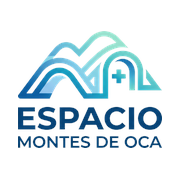
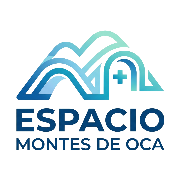
Buscador en Accesos, iconos sin fondo blanco y fuera el campo de vencimiento
BUSCADOR EN ACCESO A LA APP

El mismo de Profesionales. Con treinta y seis nombres, encontrar a uno para
crearle el acceso era bajar la lista a ojo. Filtra tambien por email: con esa
cantidad, buscar "gmail" para ver a quienes se les cargo una casilla de ese
dominio es una pregunta tan valida como buscar un apellido.

El componente se mudo a la raiz del panel porque ahora lo usan dos pantallas
y las dos hacen lo mismo —escribir en ?q= y dejar que el servidor filtre—;
lo unico que cambia es el texto de ayuda y que parametros conservar, asi que
eso son props.

El contador de arriba sigue hablando del centro entero y no de lo filtrado:
"2 de 3 no entran" mientras se busca una letra seria un numero que no
significa nada.

LOS ICONOS

Tenian fondo blanco solido: eso era el recuadro que se veia en la barra de
tareas, pegado al lado de iconos que no lo tienen. Se regeneran desde
public/logo.png con `node scripts/iconos.mjs`, en dos juegos distintos —
compartir un archivo entre los dos era el error de antes:

 · `any` transparente y con el logo lo mas grande que entra. Es el del
   escritorio.
 · `maskable` con fondo y con margen: Android lo recorta con la forma del
   telefono, asi que el dibujo tiene que llegar al borde y el logo quedar
   dentro del 80% central. Transparente, ese recorte dejaria ver el fondo
   del launcher.
 · El de iOS tambien con fondo: iOS no respeta la transparencia, compone
   sobre negro y aplica su propia esquina redondeada.
[…]

diff --git a/app/panel/[slug]/cierre/page.tsx b/app/panel/[slug]/cierre/page.tsx
@@ -70,17 +70,39 @@ export default async function CierrePage({
   // cobra en septiembre. Antes eran "diez días desde hoy", lo que corría el vencimiento según el
   // día en que uno se acordaba de cerrar — dos meses seguidos vencían en fechas distintas. Sigue
   // siendo un default: el campo se puede cambiar antes de emitir.
+  // Ya no es el valor de un campo: es lo que se le AVISA a quien cierra. La fecha sale de
+  // Configuración → Datos de cobro y se decide una vez, no en cada cierre.
   const venceDefault = venceElDelPeriodo(periodo, cobro.diaVencimiento);
+  const venceTexto = new Date(`${venceDefault}T12:00:00Z`).toLocaleDateString("es-AR", {
+    day: "numeric", month: "long", year: "numeric", timeZone: "UTC",
+  });
   const volverA = `/panel/${slug}/cierre?periodo=${periodo}`;
+
+  /**
+   * La fecha de vencimiento del período, leída de Configuración → Datos de cobro.
+   *
+   * Se resuelve ACÁ y no en el formulario: el día lo decide una sola vez quien administra el
+   * centro, y repetirlo como un campo en cada cierre era pedir que se confirme algo que ya estaba
+   * decidido — con la puerta abierta a que dos meses seguidos venzan en fechas distintas por una
+   * tecla mal apretada.
+   *
+   * Se relee de la base dentro de la acción, y no se toma del render: lo que viaja en el
+   * formulario puede venir modificado desde el navegador.
+   */
+  async function vencimientoDe(operadorId: string, periodo: string) {
+    const c = await datosDeCobro(operadorId);
+    return venceElDelPeriodo(periodo, c.diaVencimiento);
+  }
 
   async function cerrarUno(formData: FormData) {
     "use server";
     const a = await actorDeSesion(slug);
     if (!a) redirect(`/login?centro=${encodeURIComponent(slug)}`);
+    const per = String(formData.get("periodo") ?? "");
     const r = await cerrarMesDe(a, {
-      periodo: formData.get("periodo"),
+      periodo: per,
       inquilinoId: formData.get("inquilinoId"),
-      venceEl: formData.get("venceEl"),
+      venceEl: await vencimientoDe(a.operadorId, per),
     });
     revalidatePath(`/panel/${slug}/cierre`);
     const qs = !r.ok ? `&error=${r.error}` : r.data.ok ? `&ok=uno&n=${r.data.numero}` : `&error=${r.data.error}`;
@@ -91,7 +113,8 @@ export default async function CierrePage({
     "use server";
     const a = await actorDeSesion(slug);
     if (!a) redirect(`/login?centro=${encodeURIComponent(slug)}`);
-    const r = await cerrarMesTodos(a, { periodo: formData.get("periodo"), venceEl: formData.get("venceEl") });
+    const per = String(formData.get("periodo") ?? "");
+    const r = await cerrarMesTodos(a, { periodo: per, venceEl: await vencimientoDe(a.operadorId, per) });
     revalidatePath(`/panel/${slug}/cierre`);
     const qs = !r.ok ? `&error=${r.error}` : `&ok=todos&n=${r.data.cerradas}`;
     redirect(`${volverA}${qs}`);
@@ -189,15 +212,16 @@ export default async function CierrePage({
           {conPendiente.length > 0 && (
             <form action={cerrarTodos} style={{ marginTop: 18, display: "flex", gap: 12, alignItems: "flex-end", flexWrap: "wrap" }}>
               <input type="hidden" name="periodo" value={periodo} />
-              <div>
-                <label htmlFor="venceEl" style={{ marginTop: 0 }}>Vence el</label>
-                <input id="venceEl" name="venceEl" type="date" required defaultValue={venceDefault} style={{ width: "auto" }} />
-              </div>
               <BotonEnviar enviando="Cerrando…">Cerrar el mes de todos</BotonEnviar>
             </form>
           )}
 
           <p className="tenue" style={{ margin: "14px 0 0", fontSize: 12, lineHeight: 1.5 }}>
+            Las liquidaciones de {nombreDePeriodo(periodo)} vencen el <b>{venceTexto}</b>. El día
+            sale de <Link href={`/panel/${slug}/cobro`}>Datos de cobro</Link> y vale para todos:
+            así dos meses seguidos no vencen en fechas distintas.
+          </p>
+          <p className="tenue" style={{ margin: "8px 0 0", fontSize: 12, lineHeight: 1.5 }}>
             Cerrar emite la liquidación de cada profesional con su número, y <b>congela</b> los
             importes: un mes cerrado da siempre el mismo total. Los pagos no entran —esto es lo que
             se cobra, no lo que se cobró—. Y no se puede cerrar dos veces el mismo mes.
@@ -265,7 +289,6 @@ export default async function CierrePage({
                         <form action={cerrarUno}>
                           <input type="hidden" name="periodo" value={periodo} />
                           <input type="hidden" name="inquilinoId" value={f.inquilinoId} />
-                          <input type="hidden" name="venceEl" value={venceDefault} />
                           <BotonEnviar enviando="…">Cerrar</BotonEnviar>
                         </form>
                       ) : null}

diff --git a/app/panel/[slug]/accesos/page.tsx b/app/panel/[slug]/accesos/page.tsx
@@ -14,6 +14,7 @@ import { redirect } from "next/navigation";
 import { revalidatePath } from "next/cache";
 import Link from "next/link";
 import { Cabecera } from "../Cabecera.tsx";
+import { Buscador } from "../Buscador.tsx";
 import { actorDeSesion } from "../../../../src/lib/sesion.ts";
 import { puede } from "../../../../src/lib/permisos.ts";
 import { accesosDelCentro, crearAcceso, restablecerClave, LARGO_MIN_CLAVE } from "../../../../src/servicios/config/accesos.ts";
@@ -34,7 +35,7 @@ export default async function AccesosPage({
   searchParams,
 }: {
   params: Promise<{ slug: string }>;
-  searchParams: Promise<{ ok?: string; error?: string; n?: string }>;
+  searchParams: Promise<{ ok?: string; error?: string; n?: string; q?: string }>;
 }) {
   const { slug } = await params;
   const sp = await searchParams;
@@ -43,9 +44,20 @@ export default async function AccesosPage({
   if (!actor) redirect(`/login?centro=${encodeURIComponent(slug)}`);
   if (!puede(actor.rol, "usuarios.administrar")) redirect(`/panel/${slug}`);
 
-  const filas = await accesosDelCentro(actor.operadorId);
+  const todas = await accesosDelCentro(actor.operadorId);
+  // El filtro es sobre el nombre Y sobre el email: con treinta y seis, buscar "gmail" para ver a
+  // quiénes se les cargó una casilla de ese dominio es una pregunta tan válida como buscar a
+  // alguien por su apellido.
+  const busca = (sp.q ?? "").trim().toLocaleLowerCase("es");
+  const filas = busca
+    ? todas.filter((f) => `${f.nombre} ${f.email ?? ""}`.toLocaleLowerCase("es").includes(busca))
+    : todas;
+
   const sinAcceso = filas.filter((f) => !f.email);
   const conAcceso = filas.filter((f) => f.email);
+  // El contador de arriba habla SIEMPRE del centro entero, no de lo que quedó después de filtrar:
+  // "2 de 3 no entran" mientras se busca una letra sería un número que no significa nada.
+  const faltanEnTotal = todas.filter((f) => !f.email).length;
   const ruta = `/panel/${slug}/accesos`;
 
   async function crear(formData: FormData) {
@@ -83,13 +95,19 @@ export default async function AccesosPage({
         {sp.ok === "clave" && <p className="aviso-ok">Contraseña cambiada. Si tenía la app abierta en algún lado, quedó afuera.</p>}
         {sp.error && <p className="aviso-error">{FALLA[sp.error] ?? "No se pudo completar."}</p>}
 
-        <p className="tenue" style={{ margin: "6px 0 20px", fontSize: 13, lineHeight: 1.6 }}>
-          {sinAcceso.length === 0
+        <p className="tenue" style={{ margin: "6px 0 14px", fontSize: 13, lineHeight: 1.6 }}>
+          {faltanEnTotal === 0
             ? "Todos los profesionales activos pueden entrar a la app."
-            : `${sinAcceso.length} de ${filas.length} profesionales todavía no pueden entrar.`}{" "}
+            : `${faltanEnTotal} de ${todas.length} profesionales todavía no pueden entrar.`}{" "}
           La contraseña se muestra mientras la escribís para que puedas pasársela; después no se
           puede volver a ver, solo cambiar.
         </p>
+
+        <Buscador inicial={busca} placeholder="Buscar por nombre o email…" etiqueta="Buscar profesional" />
+
+        {busca && filas.length === 0 && (
+          <p className="tenue">Ningún profesional coincide con «{busca}».</p>
+        )}
 
         {/* Los que faltan, primero: es la pregunta con la que uno abre esta pantalla. */}
         {sinAcceso.length > 0 && (

diff --git a/app/panel/[slug]/Buscador.tsx b/app/panel/[slug]/Buscador.tsx
@@ -1,6 +1,6 @@
 "use client";
 
-// app/panel/[slug]/inquilinos/Buscador.tsx — filtra mientras se tipea.
+// app/panel/[slug]/Buscador.tsx — filtra una lista mientras se tipea.
 //
 // Antes era un form GET con botón "Buscar": había que escribir y apretar. Con 29 nombres eso son
 // dos gestos para algo que se hace todo el tiempo.
@@ -12,6 +12,11 @@
 //
 // El `replace` en vez de `push` es a propósito: si cada letra dejara una entrada en el historial,
 // volver atrás obligaría a apretar diez veces para salir de la pantalla.
+//
+// Vive en la raíz del panel y no adentro de una pantalla porque lo usan dos —Profesionales y
+// Acceso a la app— y las dos hacen exactamente lo mismo: escribir en `?q=` y dejar que el
+// servidor filtre. Lo único que cambia entre ellas es el texto de ayuda y qué parámetros hay que
+// conservar, así que eso son props.
 
 import { useEffect, useRef, useState } from "react";
 import { usePathname, useRouter, useSearchParams } from "next/navigation";
@@ -20,7 +25,18 @@ import { usePathname, useRouter, useSearchParams } from "next/navigation";
  *  corto para que se sienta inmediato. */
 const ESPERA_MS = 220;
 
-export function Buscador({ inicial, verTodos }: { inicial: string; verTodos: boolean }) {
+export function Buscador({
+  inicial,
+  placeholder = "Buscar por nombre…",
+  etiqueta = "Buscar",
+  ocultos = {},
+}: {
+  inicial: string;
+  placeholder?: string;
+  etiqueta?: string;
+  /** Lo que el formulario de respaldo tiene que arrastrar (por ejemplo `ver=todos`). */
+  ocultos?: Record<string, string>;
+}) {
   const router = useRouter();
   const pathname = usePathname();
   // `.toString()` y no el objeto: useSearchParams devuelve una instancia NUEVA en cada render, y
@@ -55,8 +71,8 @@ export function Buscador({ inicial, verTodos }: { inicial: string; verTodos: boo
         type="search"
         value={texto}
         onChange={(e) => setTexto(e.target.value)}
-        placeholder="Buscar por nombre o por quién abona…"
-        aria-label="Buscar profesional"
+        placeholder={placeholder}
+        aria-label={etiqueta}
         autoComplete="off"
         style={{ flex: 1 }}
       />
@@ -68,8 +84,10 @@ export function Buscador({ inicial, verTodos }: { inicial: string; verTodos: boo
       {/* Sin JavaScript el input no filtra, así que queda el form de siempre como respaldo. */}
       <noscript>
         <form method="get" style={{ display: "flex", gap: 8 }}>
-          {verTodos && <input type="hidden" name="ver" value="todos" />}
-          <input type="search" name="q" defaultValue={inicial} aria-label="Buscar profesional" />
+          {Object.entries(ocultos).map(([k, v]) => (
+            <input key={k} type="hidden" name={k} value={v} />
+          ))}
+          <input type="search" name="q" defaultValue={inicial} aria-label={etiqueta} />
           <button type="submit">Buscar</button>
         </form>
       </noscript>

diff --git a/app/manifest.ts b/app/manifest.ts
@@ -27,14 +27,20 @@ export default function manifest(): MetadataRoute.Manifest {
     theme_color: "#f4f9fb",
     lang: "es-AR",
     dir: "ltr",
+    // Dos juegos distintos, y compartir un archivo entre los dos era el error de antes.
+    //
+    //  · `any` va TRANSPARENTE y con el logo lo más grande que entra. Es el que usa la barra de
+    //    tareas del escritorio, donde un fondo blanco se ve como un recuadro pegado al lado de
+    //    íconos que no lo tienen.
+    //  · `maskable` va con fondo y con margen: Android lo recorta con la forma que use el
+    //    teléfono, así que el dibujo tiene que llegar al borde y el logo quedar dentro del 80%
+    //    central. Transparente, ese recorte dejaría ver el fondo del launcher.
+    //
+    // Los tres se generan desde public/logo.png con `node scripts/iconos.mjs`.
     icons: [
-      // `any` y `maskable` en el mismo archivo: Android recorta el ícono con la forma que use el
-      // teléfono —círculo, óvalo, cuadrado redondeado— y por eso el logo está centrado con margen,
-      // dentro de la zona que ningún recorte se come.
       { src: "/icono-192.png", sizes: "192x192", type: "image/png", purpose: "any" },
-      { src: "/icono-192.png", sizes: "192x192", type: "image/png", purpose: "maskable" },
       { src: "/icono-512.png", sizes: "512x512", type: "image/png", purpose: "any" },
-      { src: "/icono-512.png", sizes: "512x512", type: "image/png", purpose: "maskable" },
+      { src: "/icono-maskable-512.png", sizes: "512x512", type: "image/png", purpose: "maskable" },
     ],
   };
 }

diff --git a/app/panel/[slug]/inquilinos/page.tsx b/app/panel/[slug]/inquilinos/page.tsx
@@ -3,7 +3,7 @@
 import { redirect } from "next/navigation";
 import { revalidatePath } from "next/cache";
 import Link from "next/link";
-import { Buscador } from "./Buscador.tsx";
+import { Buscador } from "../Buscador.tsx";
 import { Avatar } from "../Avatar.tsx";
 import { Cabecera } from "../Cabecera.tsx";
 import { actorDeSesion } from "../../../../src/lib/sesion.ts";
@@ -112,7 +112,12 @@ export default async function InquilinosPage({
     <>
       <Cabecera slug={slug} titulo="Profesionales" />
       <main style={{ padding: 20, maxWidth: 900, margin: "0 auto" }}>
-      <Buscador inicial={busca} verTodos={verTodos} />
+      <Buscador
+        inicial={busca}
+        placeholder="Buscar por nombre o por quién abona…"
+        etiqueta="Buscar profesional"
+        ocultos={verTodos ? { ver: "todos" } : {}}
+      />
 
       <div style={{ display: "flex", alignItems: "baseline", gap: 12, flexWrap: "wrap" }}>
         <p className="tenue" style={{ margin: 0 }}>
